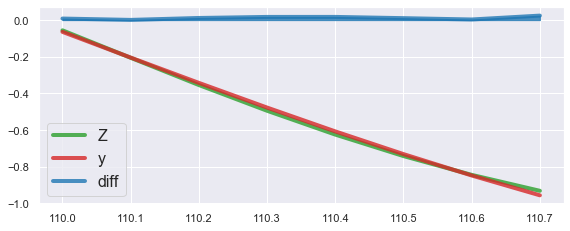
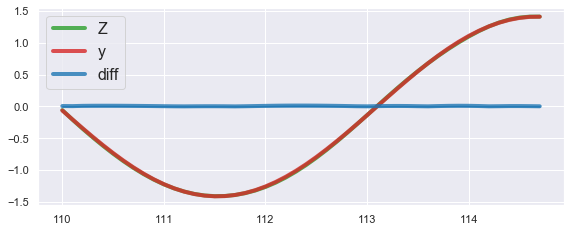
🍎 Adjust default cfg values

diff --git a/tsts/cfg/defaults.py b/tsts/cfg/defaults.py
@@ -10,9 +10,9 @@ _C.SEED = 42
 
 _C.IO = CN()
 # Number of input time steps
-_C.IO.LOOKBACK = 100
+_C.IO.LOOKBACK = 96
 # Number of output time steps
-_C.IO.HORIZON = 8
+_C.IO.HORIZON = 48
 
 _C.TRAINING = CN()
 # How to split train dataset {"col" or "row"}

diff --git a/README.md b/README.md
@@ -159,11 +159,11 @@ forecaster = TimeSeriesForecaster("cfg.yml")
 Z = forecaster.predict(X)
 
 # Initialize target to compare prediction with it
-y = torch.sin(torch.arange(110.0, 110.8, 0.1)).unsqueeze(1)
+y = torch.sin(torch.arange(110.0, 114.8, 0.1)).unsqueeze(1)
 y = X_scaler.transform(y)
 
 # Result
-plot(Z, y)
+plot(Z, y, xticks=torch.arange(110.0, 114.8, 0.1))
 ```
 
 Result:
